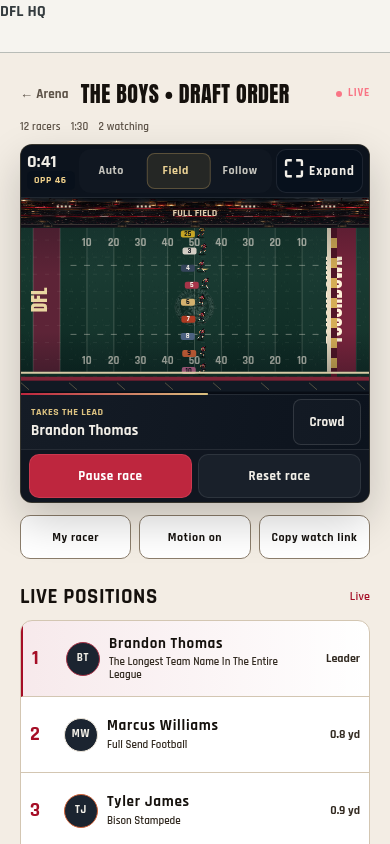
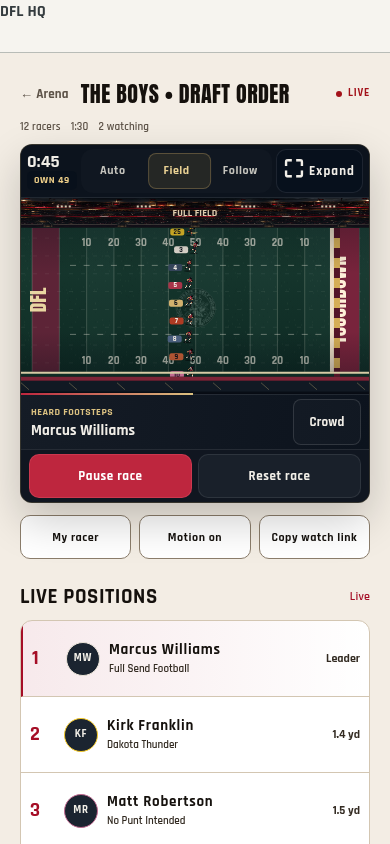
Make Arena status text readable in both themes

diff --git a/css/stadium-arena.css b/css/stadium-arena.css
@@ -207,3 +207,11 @@ body.sr-stadium-expanded #view,body.sr-stadium-expanded .sr-room{transform:none!
 .sr-kit-panel footer{box-shadow:0 14px 0 14px #101720}
 .sr-kit-panel :is(button,input,select):focus-visible{outline:2px solid #dbc180;outline-offset:2px}
 @media(max-width:350px){.sr-camera-identities{gap:8px;padding-inline:6px}.sr-camera-identities strong{font-size:12px}.sr-camera-identities>span{gap:3px;padding-left:4px}.sr-camera-identities b{font-size:11px}}
+
+/* Status ink must remain readable outside the permanently dark stadium. */
+.sr-room>.sr-room-title .sr-state{color:var(--body-text)}
+.sr-room>.sr-room-title .sr-state[data-state=running]{color:var(--danger-ink)}
+.sr-room>.sr-room-title .sr-state[data-state=running]:before{background:currentColor}
+.sr-room>.sr-room-meta .sr-connection{color:var(--warn-ink)}
+.sr-lobby>.sr-title .sr-kicker{color:var(--accent)}
+.sr-ready-status small{font:inherit}

diff --git a/tools/capture-stadium-arena.py b/tools/capture-stadium-arena.py
@@ -218,6 +218,7 @@ with sync_playwright() as p:
   admin.set_viewport_size({'width':width,'height':1024 if width==768 else 844})
   for theme in ['light','dark']:
    admin.evaluate('m=>qaTheme(m)',theme)
+   check(f'{width}px {theme} race status has readable text contrast',admin.locator('.sr-room-title .sr-state').evaluate(r"""e=>{const rgb=v=>(v.match(/[\d.]+/g)||[]).slice(0,3).map(Number),l=v=>rgb(v).map(x=>x/255).map(x=>x<=.04045?x/12.92:((x+.055)/1.055)**2.4).reduce((n,x,i)=>n+x*[.2126,.7152,.0722][i],0),probe=document.createElement('i');probe.style.background='var(--bg)';e.append(probe);const a=l(getComputedStyle(e).color),b=l(getComputedStyle(probe).backgroundColor);probe.remove();return (Math.max(a,b)+.05)/(Math.min(a,b)+.05)>=4.5}"""))
    for camera in ['auto','follow','field']:
     admin.locator('[data-camera='+camera+']').click();admin.wait_for_timeout(650);admin.evaluate('scrollTo({top:0,behavior:"instant"})');admin.screenshot(path=str(out/f'portrait-{width}-{theme}-{camera}.png'))
     check(f'{width}px {theme} {camera} portrait race stays wide and readable',admin.locator('canvas').evaluate('e=>{const r=e.getBoundingClientRect();return r.height>150&&Math.abs(r.width/r.height-16/9)<.02}') and admin.locator('[data-camera='+camera+']').evaluate('e=>e.getBoundingClientRect().height>=44') and admin.evaluate('document.documentElement.scrollWidth<=innerWidth'))

diff --git a/docs/arena-polish-review.md b/docs/arena-polish-review.md
@@ -18,7 +18,9 @@ Readiness now belongs to each racer’s existing starting-grid row, with one
 compact ready-count/action strip. The duplicate roster is removed. Standings,
 secondary actions, ranks and supporting team names use the selected app theme;
 the stadium and NFL/member identity colors retain their intended roles.
-Supporting team text is larger and loses excessive letter spacing. Keyboard
+Outer race-state and connection labels use theme-aware status ink. The old
+Light-mode gold/live colors had insufficient text contrast; the new live status
+is checked at 4.5:1 or higher in each mobile theme. Supporting team text is larger and loses excessive letter spacing. Keyboard
 focus is restored to the same control when real position changes reorder rows.
 Ready descriptions are exposed to assistive technology only while on deck.
 
@@ -75,8 +77,8 @@ paused pixel stability, live keyboard focus and shared-clock management. Canvas
 instrumentation checks the actual selected runner body bounds in edge-lane
 shots, including a paused first-to-last racer switch. Actual
 screenshots were inspected before and after the changes. Current artifacts and
-JSON checks are retained in `/tmp/dfl-1445-arena-ship/`; CI uploads the stadium
-review as an artifact. The final browser run passes 252 checks with no page errors. Release validation
+JSON checks are retained in `/tmp/dfl-1445-arena-accessibility/`; CI uploads the stadium
+review as an artifact. The final browser run passes 258 checks with no page errors. Release validation
 includes `pnpm check` (1,936 tests across 234 files) and the hosted
 Arena database/control and Home regression checks.
 

diff --git a/theme-audit.md b/theme-audit.md
@@ -565,7 +565,10 @@ expanded landscape and 1440px desktop edge-lane captures. Starting grid, live
 standings, secondary actions, ranks, team-name text and readiness now follow
 shared app ground/ink/accent/border tokens. The venue, uniform editor, kit colors
 and member identity accents retain their explicit dark-stadium/identity roles.
-The editor’s sticky surfaces are opaque, and the in-grid focus ring uses the
+Outer race-state and connection text use theme-aware status ink; the old
+Light-mode status colors failed text contrast. Live race labels are checked
+against the theme ground at 4.5:1 or higher. Ready text keeps its intended 12px
+size instead of inheriting a smaller browser default. The editor’s sticky surfaces are opaque, and the in-grid focus ring uses the
 selected accent without clipping at the board edge. On-camera names use native
 text above the field rather than small compressed Canvas labels.
 
